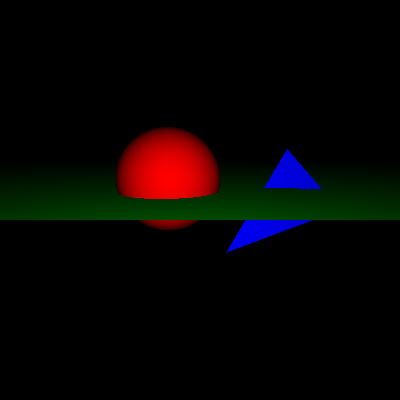
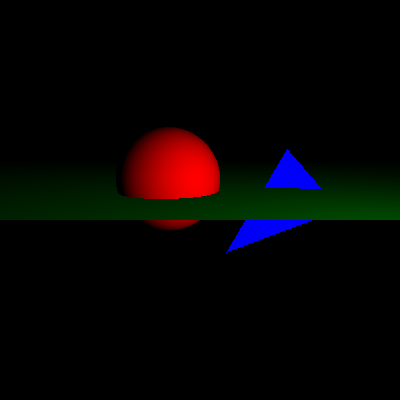
point light

diff --git a/materials/Diffuse.cpp b/materials/Diffuse.cpp
@@ -1,5 +1,7 @@
 #include "Diffuse.hpp"
 #include "../utilities/ShadeInfo.hpp"
+#include "../lights/Light.hpp"
+#include <iostream>
 
 Diffuse::Diffuse(){
     lambertian_brdf = Lambertian();
@@ -22,6 +24,11 @@ Diffuse &Diffuse::operator=(const Diffuse &other){
     return *this;
 }
 
-RGBColor Diffuse::shade(const ShadeInfo &sinfo) const {
-    return lambertian_brdf.f(sinfo.ray.d, sinfo.ray.d, sinfo.normal) * (sinfo.normal * -sinfo.ray.d); // TO DO, NEED TO PROVIDE LIGHT DIRECTION
+RGBColor Diffuse::shade(const ShadeInfo &sinfo, std::vector<Light *> &lights) const {
+    RGBColor color = RGBColor();
+    for (Light* light_ptr : lights) {
+        color += lambertian_brdf.f(sinfo.ray.d, light_ptr->get_direction(sinfo.hit_point), sinfo.normal) * light_ptr->L() * std::max(sinfo.normal * light_ptr->get_direction(sinfo.hit_point), 0.0);
+    }
+    color.clamp();
+    return color;
 }

diff --git a/lights/PointLight.cpp b/lights/PointLight.cpp
@@ -1,0 +1,37 @@
+#include "PointLight.hpp"
+#include "../utilities/RGBColor.hpp"
+
+PointLight::PointLight(){
+    ls = 1.0;
+    cl = RGBColor(1.0);
+    pos = Point3D();
+}
+
+PointLight::PointLight(float ls, RGBColor cl, Point3D pos) {
+    this->ls = ls;
+    this->cl = cl;
+    this->pos = pos;
+}
+    
+PointLight::PointLight(const PointLight &other){
+    ls = other.ls;
+    cl = other.cl;
+    pos = other.pos;
+}
+
+PointLight &PointLight::operator=(const PointLight &other){
+    ls = other.ls;    
+    cl = other.cl;    
+    pos = other.pos;
+    return *this;
+}
+
+Vector3D PointLight::get_direction(const Point3D& p) const {
+    Vector3D dir = pos - p;
+    dir.normalize();
+    return dir;
+}
+
+RGBColor PointLight::L() const {
+    return ls * cl;
+}

diff --git a/materials/Material.hpp b/materials/Material.hpp
@@ -1,14 +1,18 @@
 #pragma once
 
-/**
-   This file declares the Material class which is an abstract class for concrete
-   materials to inherit from.
 
-   Courtesy Kevin Suffern.
-*/
+/**
+ This file declares the Material class which is an abstract class for concrete
+ materials to inherit from.
+ 
+ Courtesy Kevin Suffern.
+ */
+
+#include <vector>
 
 class RGBColor;
 class ShadeInfo;
+class Light;
 
 class Material {
 public:
@@ -23,5 +27,5 @@ public:
   virtual ~Material() = default;
 
   // Get color.
-  virtual RGBColor shade(const ShadeInfo &sinfo) const = 0;
+  virtual RGBColor shade(const ShadeInfo &sinfo, std::vector<Light *> &lights) const = 0;
 };

diff --git a/lights/Light.hpp b/lights/Light.hpp
@@ -1,14 +1,22 @@
 #pragma once
 
-class Vector3D;
-class RGBColor;
+#include "../utilities/RGBColor.hpp"
+#include "../utilities/Vector3D.hpp"
+
+class Point3D;
 
 class Light {
 protected:
     float ls; // light intensity
-    float cl; // light color
+    RGBColor cl; // light color
 
 public:
-    virtual Vector3D get_direction() const = 0;
+    Light() = default;
+
+    Light(const Light &other) = default;
+    Light &operator=(const Light &other) = default;
+    virtual ~Light() = default;
+
+    virtual Vector3D get_direction(const Point3D& p) const = 0;
     virtual RGBColor L() const = 0;
 };

diff --git a/build/buildbrdf.cpp b/build/buildbrdf.cpp
@@ -7,6 +7,8 @@
 
 #include "../cameras/Perspective.hpp"
 
+#include "../lights/PointLight.hpp"
+
 #include "../geometry/Plane.hpp"
 #include "../geometry/Sphere.hpp"
 #include "../geometry/Triangle.hpp"
@@ -38,6 +40,10 @@ World::build(void) {
   // Camera and sampler.
   set_camera(new Perspective(0, 0, 20));
   sampler_ptr = new Simple(camera_ptr, &vplane);
+
+  // Point Light
+  PointLight* light_ptr = new PointLight(1.0, RGBColor(1.0), Point3D(10, 0, 20));
+  add_light(light_ptr);
 	
   // sphere
   Sphere* sphere_ptr = new Sphere(Point3D(-3, 2, 0), 5); 

diff --git a/lights/PointLight.hpp b/lights/PointLight.hpp
@@ -1,0 +1,20 @@
+#include "Light.hpp"
+
+#include "../utilities/Point3D.hpp"
+
+
+class PointLight : public Light {
+protected:
+    Point3D pos;
+
+public:
+    PointLight(); // (origin, intensity = 1, color = white)
+    PointLight(float ls, RGBColor cl, Point3D pos); // assign accordingly
+    
+    PointLight(const PointLight &other);
+    PointLight &operator=(const PointLight &other);
+    virtual ~PointLight() = default;
+
+    virtual Vector3D get_direction(const Point3D& p) const override;
+    virtual RGBColor L() const override;
+};

diff --git a/world/World.hpp b/world/World.hpp
@@ -18,6 +18,7 @@
 
 class Camera;
 class Geometry;
+class Light;
 class Ray;
 class Sampler;
 class ShadeInfo;
@@ -27,6 +28,7 @@ public:
   ViewPlane vplane;
   RGBColor bg_color;
   std::vector<Geometry *> geometry;
+  std::vector<Light *> lights;
   Camera *camera_ptr;
   Sampler *sampler_ptr;
 
@@ -39,6 +41,7 @@ public:
 
   // Add to the scene.
   void add_geometry(Geometry *geom_ptr);
+  void add_light(Light *light_ptr);
   void set_camera(Camera *c_ptr);
 
   // Build scene - add all geometry, materials, lights, viewplane, camera,

diff --git a/raytracer.cpp b/raytracer.cpp
@@ -31,7 +31,7 @@ int main(int argc, char **argv) {
         float weight = ray.w; // ray weight for the pixel.
         ShadeInfo sinfo = world.hit_objects(ray);
         if (sinfo.hit) {
-          pixel_color += weight * sinfo.material_ptr->shade(sinfo);
+          pixel_color += weight * sinfo.material_ptr->shade(sinfo, world.lights);
         }
 	else {
           pixel_color += weight * world.bg_color;

diff --git a/world/World.cpp b/world/World.cpp
@@ -6,12 +6,17 @@ World::World(){
     vplane = ViewPlane();
     bg_color = RGBColor();
     geometry = {};
+    lights = {};
     camera_ptr = nullptr;
     sampler_ptr = nullptr;
 }
 
 void World::add_geometry(Geometry *geom_ptr) {
     this->geometry.push_back(geom_ptr);
+}
+
+void World::add_light(Light *light_ptr) {
+    this->lights.push_back(light_ptr);
 }
 
 void World::set_camera(Camera *c_ptr){

diff --git a/utilities/RGBColor.hpp b/utilities/RGBColor.hpp
@@ -44,6 +44,7 @@ public:
   bool operator==(const RGBColor &c) const;    // equality.
   RGBColor powc(float p) const;                // raise components to a power.
   float average() const;                       // the average of the components.
+  void clamp();                                // clamp rgb components b/w 0 and 1
 };
 
 // Multiplication by a float.

diff --git a/materials/Cosine.hpp b/materials/Cosine.hpp
@@ -36,5 +36,5 @@ public:
      \theta is the angle between the normal at the hit pont and the ray.
      Assuming unit vectors, cos \theta = dot product of normal and -ray.dir.
   */
-  virtual RGBColor shade(const ShadeInfo &sinfo) const override;
+  virtual RGBColor shade(const ShadeInfo &sinfo, std::vector<Light *> &lights) const override;
 };

diff --git a/materials/Diffuse.hpp b/materials/Diffuse.hpp
@@ -25,5 +25,5 @@ public:
      \theta is the angle between the normal at the hit pont and the ray.
      Assuming unit vectors, cos \theta = dot product of normal and -ray.dir.
   */
-  virtual RGBColor shade(const ShadeInfo &sinfo) const override;
+  virtual RGBColor shade(const ShadeInfo &sinfo, std::vector<Light *> &lights) const override;
 };
